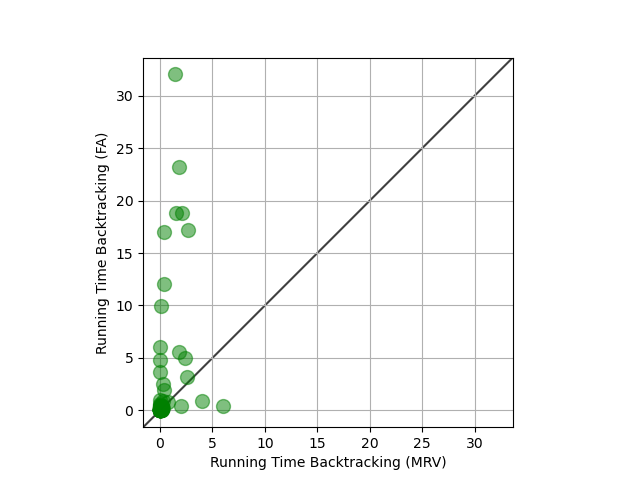
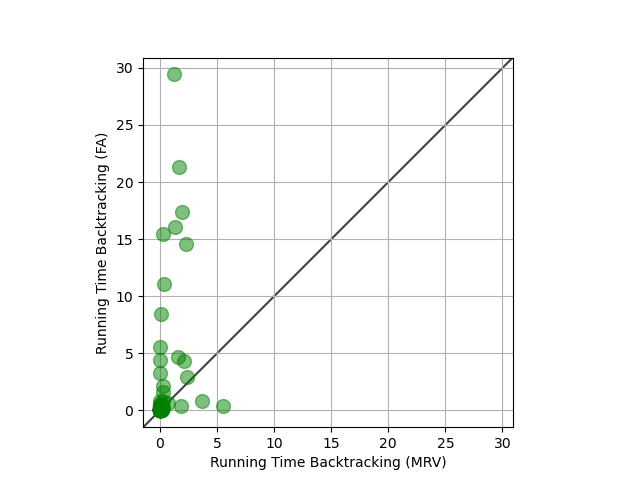
graph

diff --git a/starter/main.py b/starter/main.py
@@ -373,14 +373,13 @@ class Backtracking:
         vx,vy=var_selector.select_variable(grid)
         dom=grid.get_cells()[vx][vy]
         for d in dom:
-            if grid.is_value_consistent(d,vx,vy):
-                grid_copy=grid.copy()
-                grid_copy.get_cells()[vx][vy]=d
-                ri=self.ac.consistency(grid_copy,[(vx,vy)])
-                if not ri:
-                    rb=self.search(grid_copy,var_selector)
-                    if rb is not None:
-                        return rb
+            grid_copy=grid.copy()
+            grid_copy.get_cells()[vx][vy]=d
+            ri=self.ac.consistency(grid_copy,[(vx,vy)])
+            if not ri:
+                rb=self.search(grid_copy,var_selector)
+                if rb is not None:
+                    return rb
         return None
 
 
@@ -412,7 +411,6 @@ if __name__ == '__main__':
         g_bt_mrv = bt.search(g, MRV())
         tmrv = time.perf_counter()-tmrv_s
         assert g_bt_mrv.is_solved()
-        print(tfa, tmrv)
         running_time_first_available.append(tfa)
         running_time_mrv.append(tmrv)
 
